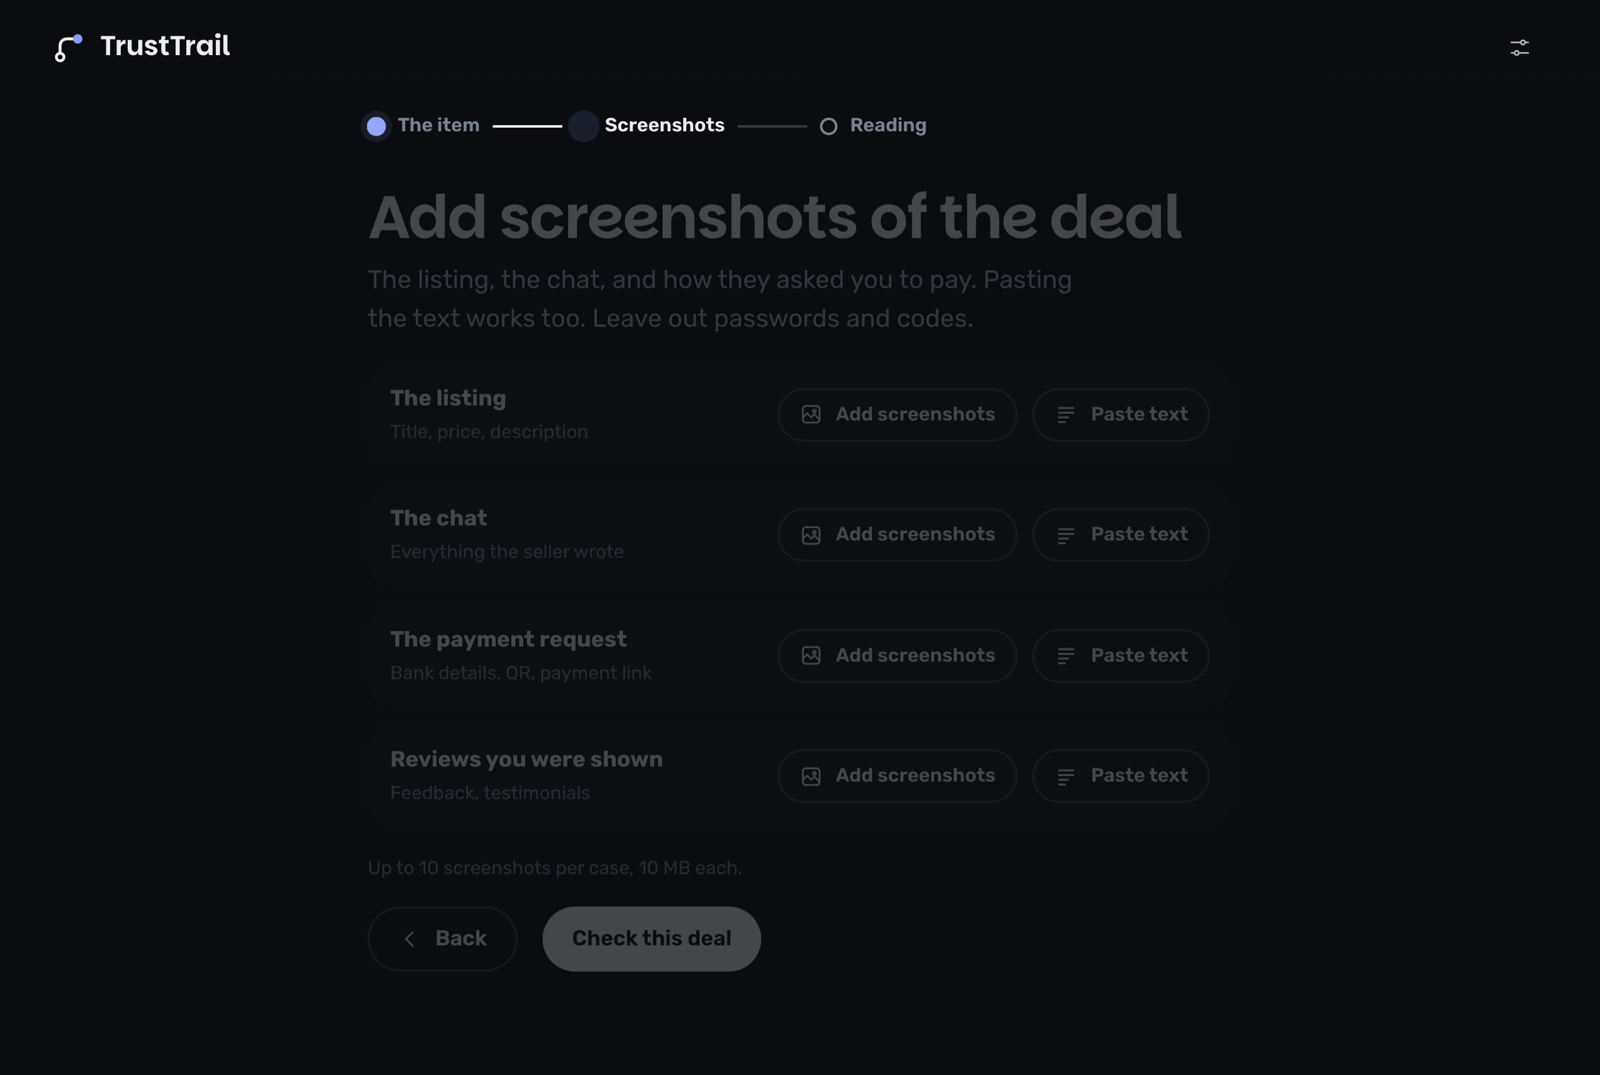
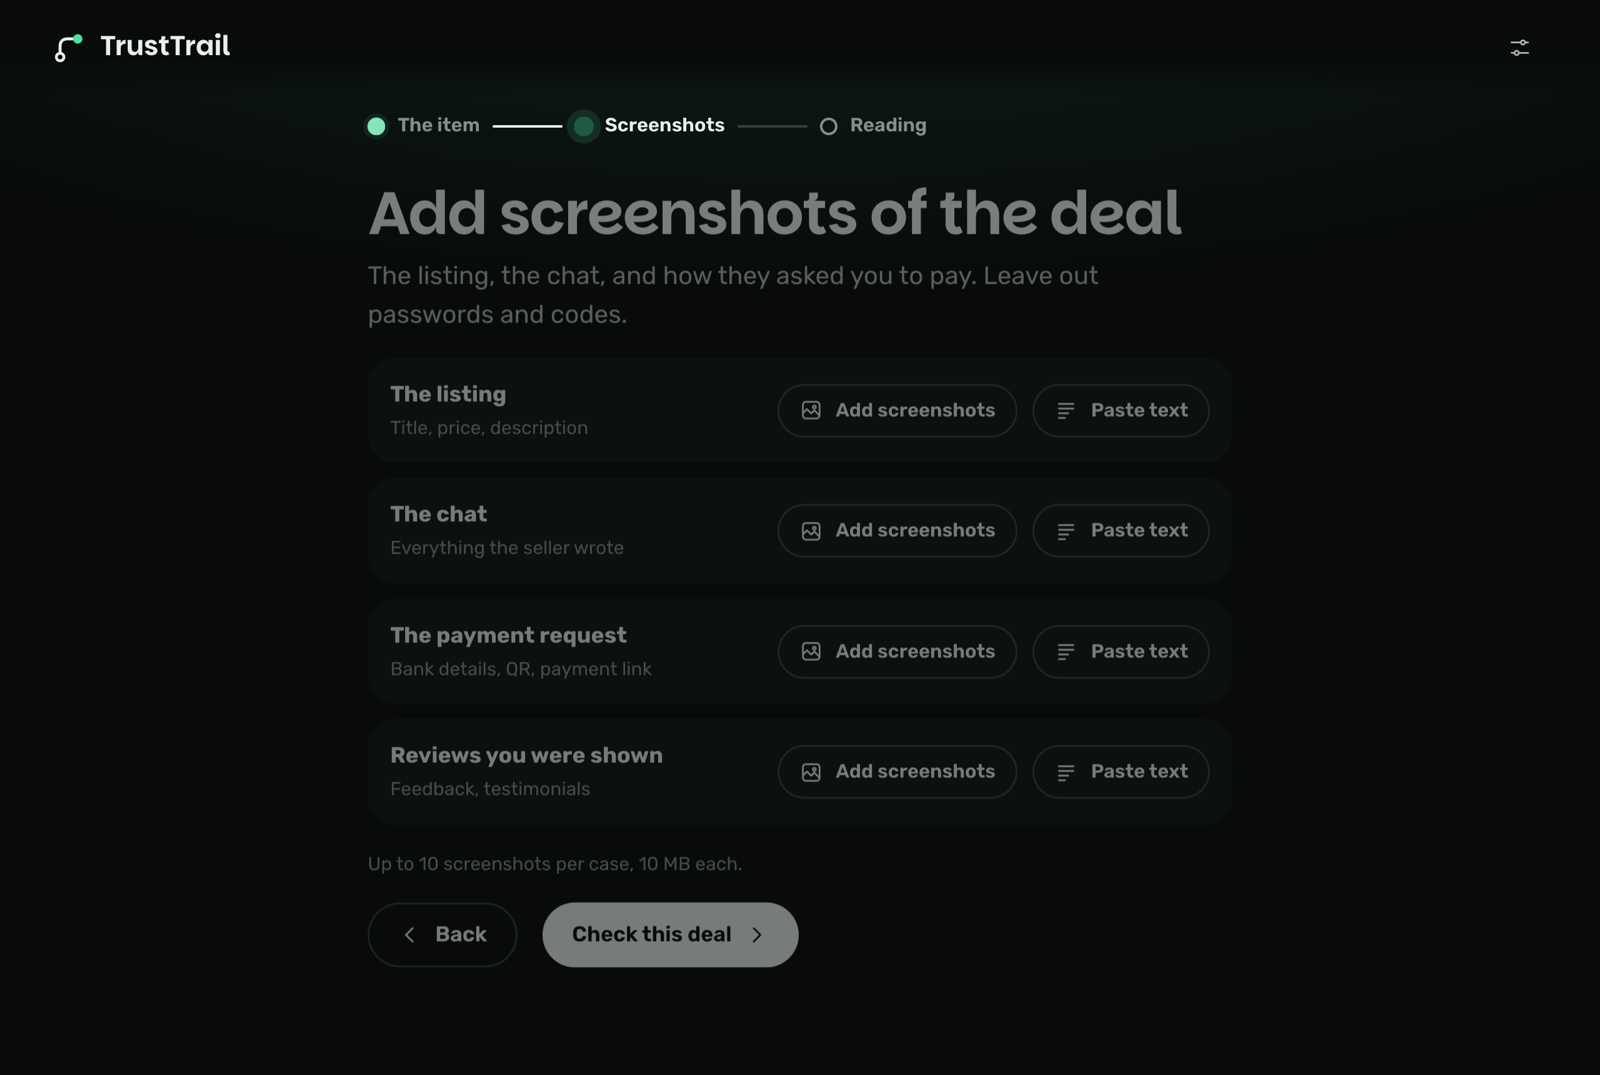
Showcase: AI suggestions, green theme, new dark mode, refreshed screenshots

diff --git a/README.md b/README.md
@@ -16,7 +16,9 @@ It never calls a person a scammer, and it never calls a purchase safe. It shows 
 
 ## Private by construction
 
-Everything runs in your browser. No account, no server, no analytics. Screenshots are read on your device. A full session makes **zero requests** to any other server (measured, not promised), and the site keeps working offline.
+Everything runs in your browser. No account, no server, no analytics. Screenshots are read on your device, and fixed rules decide the result. A full session makes **zero requests** to any other server (measured, not promised) unless you choose to ask for an AI explanation, and the site keeps working offline.
+
+**Optional AI, both free.** "AI suggestions" says what is going on in plain language, then gives next steps tailored to the deal, each with a message you can copy and send, written in the language the seller uses. Where the browser has a built-in model it runs on your device. Otherwise you can ask Google's free Gemini: it asks first, every time, and blocks out phone, account, email and ID numbers before sending. The AI never decides the result, and anything it quotes is checked word for word against your evidence.
 
 ## A look around
 
@@ -35,6 +37,8 @@ Everything runs in your browser. No account, no server, no analytics. Screenshot
 <img src="screens/phone-light-7-checks.png" width="23%" alt="Phone: checks">
 </p>
 
+<p align="center"><img src="screens/ai-suggestions.png" width="70%" alt="AI suggestions: a plain summary and three next steps with messages in Malay"></p>
+
 ## How it works
 
 ```
@@ -42,7 +46,7 @@ screenshots or pasted text
   → checked, size-capped and re-encoded on arrival
   → read on the device (English and Malay), one row per message
   → you correct anything it misread
-  → 14 fixed, versioned rules read the original words (no AI model, no score)
+  → 14 fixed, versioned rules read the original words and decide the result (no score)
   → contradictions, copied reviews and odd link spellings are picked out
   → one of six plain results, none of which is "safe"
   → what to do next, and what is still unchecked
@@ -52,7 +56,7 @@ Every finding must quote its source word for word. If you fix a misread line, th
 
 ## Design
 
-One idea carried everywhere: a claim is only as good as the words it rests on, so the words are struck with a highlighter and numbered, and the same number sits on the screenshot. Warning weight is shown with a plain icon and a word ("Serious", "Worth checking", "Good to know"), never with a red stamp or a green tick. A guide bar walks you through one real step at a time, named from your own case ("Check 012-555 0142 with Semak Mule").
+One idea carried everywhere: a claim is only as good as the words it rests on, so the words are struck with a highlighter and numbered, and the same number sits on the screenshot. Warning weight is shown with a plain icon and a word ("Serious", "Worth checking", "Good to know"), never with a verdict stamp. Green is the working colour, red is kept for deleting things, and dark mode is its own design: green-tinted near-black, lit from above, with highlighter marks that stay bright. A guide bar walks you through one real step at a time, named from your own case ("Check 012-555 0142 with Semak Mule").
 
 Built to be usable by anyone: large touch targets, plain words, numbers first, detail tucked behind "More detail", 25 interface languages including right-to-left, light and dark, phone to desktop.
 
@@ -60,7 +64,7 @@ Built to be usable by anyone: large touch targets, plain words, numbers first, d
 
 | | |
 |---|---|
-| Automated tests | 1,393 passing |
+| Automated tests | 1,412 passing |
 | Fictional rule fixtures | 840 (English, Malay, mixed Manglish) |
 | Findings quoting their source word for word | 537 of 537 |
 | Injected instructions that changed a result | 0 of 130 |
@@ -68,7 +72,7 @@ Built to be usable by anyone: large touch targets, plain words, numbers first, d
 | Requests to other servers in a full session | 0 |
 | New check with a screenshot, click to result | about 5 s |
 
-Stack: TypeScript, React, Vite, IndexedDB, Tesseract compiled to WebAssembly (self-hosted), strict Content-Security-Policy. No backend.
+Stack: TypeScript, React, Vite, IndexedDB, Tesseract compiled to WebAssembly (self-hosted), Chrome's on-device Prompt API, Gemini free tier (opt-in), strict Content-Security-Policy. No backend, and nothing that can produce a bill.
 
 ## Honest status
 

diff --git a/docs/REPORT.md b/docs/REPORT.md
@@ -11,6 +11,7 @@ A private tool for one moment: you are about to pay someone you met online for a
 | Analysis engine | 14 versioned rules from the research + 1 for checks the user runs; contradiction finder (price, payee, account, storage, model, location); copied-review clustering; link spelling inspector; six-outcome ordered aggregation; evidence graph; timeline |
 | Reading screenshots | On-device OCR (English + Malay), one row per chat message, word-level boxes, editable text with history |
 | App | Home, 3-step new case, case workbench (Overview, Evidence, Findings in three views, Checks, Report), Settings, a step-by-step guide in every case |
+| AI (optional) | "AI suggestions": says what is going on in plain words, then 2 to 4 next steps tailored to the deal, each with a ready-to-send message in the seller's language, and up to three extra lines worth a look. On-device where the browser has a built-in model; otherwise Google's free Gemini, only after an explicit yes each time, with numbers blocked out. The AI never decides the result |
 | Privacy | No server, no account, no analytics. Images re-encoded on arrival. Third-party numbers hidden in reports by default. Cases delete themselves after 30 days; hard delete with a receipt |
 | Languages | 25 interface languages (English reviewed, 24 machine-drafted previews), right-to-left support. Analysis in English and Malay |
 | Platform | Installable, works offline, light and dark, phone to desktop |
@@ -22,10 +23,11 @@ All of this was run on 11 Nov 2026 against the live site with real headless Chro
 
 | Check | Result |
 |-------|--------|
-| Automated tests | 1,393 passing across 10 files (`npm test`) |
+| Automated tests | 1,412 passing across 11 files (`npm test`) |
 | Type check + production build | Clean (`npm run build`) |
 | Fresh case with a real image through OCR | Result shown about 5 s after pressing "Check this deal" (includes first download of the OCR engine) |
-| Requests to any other server during a full session | 0 |
+| Requests to any other server during a full session (without pressing "Ask Google Gemini") | 0 |
+| Free Gemini path on the live site, real Chrome (`node scripts/ai-check.mjs <url>`) | 0 requests before consent; 1 request after; phone and account numbers absent from what was sent; a summary and 3 tailored next steps returned, with messages written in the seller's language (Malay) |
 | Console or page errors, 4 device profiles | 0 |
 | Sideways scrolling at 390, 820, 1440 wide (and 320 by hand) | None |
 | Offline worker registered | Yes |
@@ -49,6 +51,9 @@ Screenshots of every screen at each size are in `docs/screens/`.
 - Any unfamiliar link on the same line as a payment word counts as a payment link, which is a serious sign.
 - Three identical default reviews ("Item received. Thanks.") count as copied reviews.
 - A 10-digit bank account starting with 01 is read as a Malaysian mobile number.
+
+## Cost
+Nothing here can produce a bill: Firebase Hosting is on the free plan and the Google Cloud project has **no billing account attached** (checked with `gcloud billing projects describe trusttrail-yeegz`). The Gemini key is the free tier on that same project; if the allowance runs out, the button reports it and the rest keeps working.
 
 ## Where things are
 - Live: https://trusttrail-yeegz.web.app (Firebase Hosting, free plan, project `trusttrail-yeegz`)

diff --git a/docs/THREAT_MODEL.md b/docs/THREAT_MODEL.md
@@ -8,8 +8,11 @@ Scope: the browser app as shipped (static files + IndexedDB). There is no backen
 
 | Threat | Control | Evidence |
 |--------|---------|----------|
-| Evidence leaving the device | No network code in the app; fonts, OCR worker, WASM and language data are same-origin; CSP `default-src 'self'; connect-src 'self'`; `Referrer-Policy: no-referrer`. | `tests/adversarial` static grep for `fetch(`, `XMLHttpRequest`, `WebSocket`, `sendBeacon`; network tab during OCR shows only `/ocr/*`. |
-| Prompt injection in evidence | There is no model. Rules are regular expressions; text cannot change control flow. | Injection fixtures must not change the outcome. |
+| Evidence leaving the device | No network code in the engine or UI except the one opt-in AI call (next row); fonts, OCR worker, WASM and language data are same-origin; CSP `default-src 'self'; connect-src 'self' generativelanguage.googleapis.com`; `Referrer-Policy: strict-origin`. | `tests/adversarial` static grep for `fetch(`, `XMLHttpRequest`, `WebSocket`, `sendBeacon`; network tab during OCR shows only `/ocr/*`. |
+| Evidence sent to Google by the optional AI card | Off until the person presses "Ask Google Gemini" and confirms a dialog that states what is sent and that Google's free tier may use it to improve its products; asked every time; phone, account, email and ID numbers are blocked out before serialising; names and message text are NOT removed. On-device AI is offered instead wherever the browser has it. | `tests/ai.test.ts` (numbers absent from the request); real-Chrome run: 0 external requests before consent, 1 POST after, numbers absent from the body. |
+| The AI inventing or judging | Reply must be JSON matching a schema; each note's quote must be a word-for-word substring of the line that was sent or the note is dropped; notes about lines the rules already cited are dropped; links are stripped; English verdict wording ("scam", "safe to buy", "legit") causes the whole answer to be withheld; the AI output is never an input to the engine and is left out of the report. | `tests/ai.test.ts`. Verdict filtering is English-only: other languages rely on the instruction and the "can be wrong" label. |
+| Public Gemini key abused | Key restricted to one API and to this site's referrers; project has no billing account, so the ceiling is the free allowance. Referrers can be forged by non-browser clients. | A request without the site's referrer returns 403. |
+| Prompt injection in evidence | The rule engine has no model. Rules are regular expressions; text cannot change control flow. | Injection fixtures must not change the outcome. |
 | XSS through OCR or pasted text | React escaping only; no `dangerouslySetInnerHTML`; URLs are never rendered as links; strict CSP without `unsafe-eval` (only `wasm-unsafe-eval` for Tesseract). | XSS payload fixtures survive as inert text. |
 | SSRF / link following | Evidence URLs are strings. The only outbound links are the official check sites from `src/data/countries.ts`, opened by the user with `rel="noopener noreferrer"`. | Fixtures with `127.0.0.1` and metadata addresses. |
 | Malicious images, decompression bombs | Magic-byte sniffing (PNG/JPEG/WebP), 10 MB and 40 MP caps, max 10 images, redraw onto a canvas and re-encode as PNG (drops EXIF and any payload) before storage or OCR. | `src/ocr/image.ts`. |

diff --git a/docs/DECISIONS.md b/docs/DECISIONS.md
@@ -16,3 +16,5 @@ Dated 11 Nov 2026. Each has a trigger that would reopen it.
 | 010 | Redaction of third-party identifiers is ON by default in reports; the owner can reveal each one. | Defamation and privacy risk in a shareable report. | Legal review says otherwise. |
 | 011 | Default retention 30 days, hard delete with a counts-only receipt. | Storage limitation. | Owner changes the default. |
 | 012 | No Go worker, no graph database, no Kubernetes. | Nothing to justify them. | A measured bottleneck. |
+| 013 | **Optional AI explanation, two free providers** (owner's decision, 11 Nov 2026; supersedes the "no hosted AI" part of 006 for this one feature). On-device: Chrome's built-in model via the Prompt API (stable for web pages on desktop Chrome 148+; English, Japanese, Spanish, German, French output). Hosted: Google Gemini free tier, behind a consent dialog every time. | He asked for a free AI in the analysis. The AI is confined to rewording the result and suggesting up to three extra lines to look at; rules still decide everything. Hosted Gemini reaches phones and other browsers that have no on-device model. | The free tier is withdrawn, quota (roughly tens of requests a day per model) proves too small, or a private on-device model becomes available on phones. |
+| 014 | The Gemini key is a public browser key: restricted to the Generative Language API and to this site's referrers, on a project with **billing disabled**. | A static site cannot hide a key and a proxy would need a paid or separate service. The worst case of abuse is the free allowance running out (the card then says so); it cannot produce a bill. | Abuse actually exhausts the allowance regularly: move the call behind a free Cloudflare Worker. |
